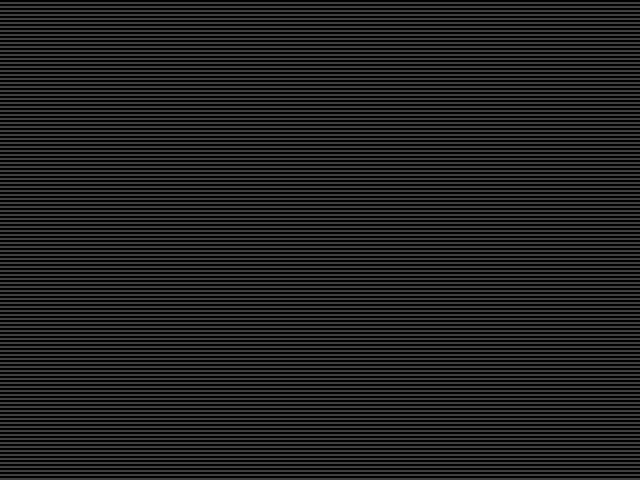
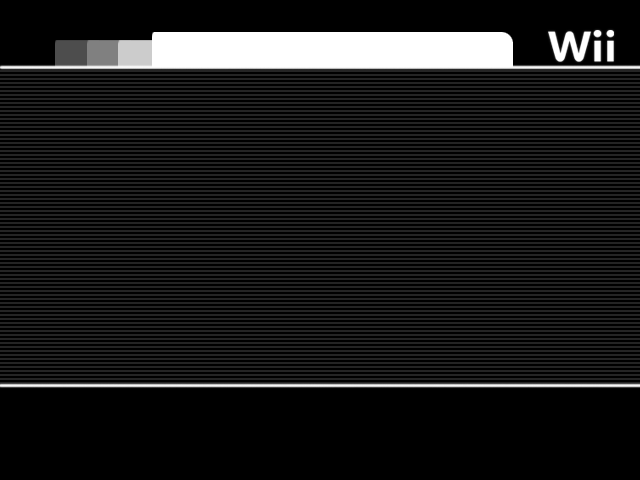
*Reverted cyrex changes to the settings *Added Japanese UnicodeFix made by Rudolph (thanks) (you still need to compile with a japanese font.ttf to have it work) *Added missing languagevariables
issue 517, issue 515, issue 519

diff --git a/source/Settings.cpp b/source/Settings.cpp
@@ -5,7 +5,7 @@
 #include "filelist.h"
 #include "sys.h"
 #include "wbfs.h"
-#include "language.h"
+#include "language/language.h"
 #include "libwiigui/gui.h"
 #include "libwiigui/gui_customoptionbrowser.h"
 #include "fatmounter.h"
@@ -51,13 +51,6 @@ int MenuSettings()
     GuiSound btnClick1(button_click_pcm, button_click_pcm_size, SOUND_PCM, Settings.sfxvolume);
 
 	char imgPath[100];
-	
-	snprintf(imgPath, sizeof(imgPath), "%ssettings_top.png", CFG.theme_path);
-	GuiImageData settingsTop(imgPath, settings_top_png);
-	
-	snprintf(imgPath, sizeof(imgPath), "%ssettings_bottom.png", CFG.theme_path);
-	GuiImageData settingsBottom(imgPath, settings_bottom_png);
-
 
 	snprintf(imgPath, sizeof(imgPath), "%sbutton_dialogue_box.png", CFG.theme_path);
 	GuiImageData btnOutline(imgPath, button_dialogue_box_png);
@@ -87,14 +80,6 @@ int MenuSettings()
 
 	GuiImage creditsImg(&creditsImgData);
 	GuiImage creditsImgOver(&creditsOver);
-	
-	GuiImage settingsTopImg(&settingsTop);
-	settingsTopImg.SetAlignment(ALIGN_LEFT, ALIGN_TOP);
-	settingsTopImg.SetEffect(EFFECT_SLIDE_TOP | EFFECT_SLIDE_IN, 35);
-	
-	GuiImage settingsBottomImg(&settingsBottom);
-	settingsBottomImg.SetAlignment(ALIGN_LEFT, ALIGN_BOTTOM);
-	settingsBottomImg.SetEffect(EFFECT_SLIDE_BOTTOM | EFFECT_SLIDE_IN, 35);
 
     GuiTrigger trigA;
 	trigA.SetSimpleTrigger(-1, WPAD_BUTTON_A | WPAD_CLASSIC_BUTTON_A, PAD_BUTTON_A);
@@ -114,7 +99,6 @@ int MenuSettings()
     GuiText titleTxt(LANGUAGE.settings, 28, (GXColor){0, 0, 0, 255});
 	titleTxt.SetAlignment(ALIGN_CENTRE, ALIGN_TOP);
 	titleTxt.SetPosition(0,40);
-	titleTxt.SetEffect(EFFECT_SLIDE_TOP | EFFECT_SLIDE_IN, 35);
 
     GuiImage settingsbackground(&settingsbg);
 
@@ -128,7 +112,6 @@ int MenuSettings()
 	GuiButton backBtn(&backBtnImg,&backBtnImg, 2, 3, -180, 400, &trigA, &btnSoundOver, &btnClick,1);
 	backBtn.SetLabel(&backBtnTxt);
 	backBtn.SetTrigger(&trigB);
-	backBtn.SetEffect(EFFECT_SLIDE_BOTTOM | EFFECT_SLIDE_IN, 35);
 
 	GuiButton homo(1,1);
 	homo.SetTrigger(&trigHome);
@@ -296,8 +279,6 @@ int MenuSettings()
 			mainWindow->Append(&w);
 			w.RemoveAll();
             w.Append(&settingsbackground);
-			w.Append(&settingsTopImg);
-			w.Append(&settingsBottomImg);
             w.Append(&PageIndicatorBtn1);
             w.Append(&PageIndicatorBtn2);
 			w.Append(&titleTxt);
@@ -397,8 +378,6 @@ int MenuSettings()
 			mainWindow->Append(&w);
 			w.RemoveAll();
             w.Append(&settingsbackground);
-			w.Append(&settingsTopImg);
-			w.Append(&settingsBottomImg);
             w.Append(&PageIndicatorBtn1);
             w.Append(&PageIndicatorBtn2);
 			w.Append(&titleTxt);
@@ -532,7 +511,7 @@ int MenuSettings()
                             Settings.wiilight = 0;
                         if(Settings.rumble >= settings_rumble_max)
                             Settings.rumble = 0; //RUMBLE
-                        if ( Settings.unicodefix > 2 )
+                        if ( Settings.unicodefix > 3 )
                             Settings.unicodefix = 0;
 						if(Settings.titlesOverride >= 2)
 							Settings.titlesOverride = 0;
@@ -577,6 +556,7 @@ int MenuSettings()
                         if (Settings.unicodefix == 0) options2.SetValue(9,"%s",LANGUAGE.OFF);
                         else if (Settings.unicodefix == 1) options2.SetValue(9,"%s",LANGUAGE.TChinese);
                         else if (Settings.unicodefix == 2) options2.SetValue(9,"%s",LANGUAGE.SChinese);
+                        else if (Settings.unicodefix == 3) options2.SetValue(9,"%s",LANGUAGE.Japanese);
 
                         if (Settings.titlesOverride == 0) options2.SetValue(10,"%s",LANGUAGE.OFF);
                         else if (Settings.titlesOverride == 1) options2.SetValue(10,"%s",LANGUAGE.ON);
@@ -887,8 +867,8 @@ int MenuSettings()
                     titleTxt.SetText(LANGUAGE.Parentalcontrol);
                     exit = false;
 					for(int i = 0; i <= MAXOPTIONS; i++) options2.SetName(i, NULL);
-                    options2.SetName(0, "Console");
-                    options2.SetName(1, "%s", LANGUAGE.Password);
+                    options2.SetName(0, "%s",LANGUAGE.Console);
+                    options2.SetName(1, "%s",LANGUAGE.Password);
                     options2.SetName(2, "%s",LANGUAGE.Controllevel);
                     for(int i = 0; i <= MAXOPTIONS; i++) options2.SetValue(i, NULL);
                     w.Append(&optionBrowser2);
@@ -1683,19 +1663,13 @@ int GameSettings(struct discHdr * header)
 	options3.SetName(3, "Ocarina");
 	options3.SetName(4, "IOS");
 	options3.SetName(5,"%s", LANGUAGE.Parentalcontrol);
-	options3.SetName(6,"%s", "Error 002 fix");
+	options3.SetName(6,"%s", LANGUAGE.Error002fix);
 	options3.SetName(7,"%s", LANGUAGE.Defaultgamesettings);
 
 	GuiSound btnSoundOver(button_over_pcm, button_over_pcm_size, SOUND_PCM, Settings.sfxvolume);
 	GuiSound btnClick(button_click2_pcm, button_click2_pcm_size, SOUND_PCM, Settings.sfxvolume);
 
 	char imgPath[100];
-	
-	snprintf(imgPath, sizeof(imgPath), "%ssettings_top.png", CFG.theme_path);
-	GuiImageData settingsTop(imgPath, settings_top_png);
-	
-	snprintf(imgPath, sizeof(imgPath), "%ssettings_bottom.png", CFG.theme_path);
-	GuiImageData settingsBottom(imgPath, settings_bottom_png);
 
 	snprintf(imgPath, sizeof(imgPath), "%sbutton_dialogue_box.png", CFG.theme_path);
 	GuiImageData btnOutline(imgPath, button_dialogue_box_png);
@@ -1713,21 +1687,12 @@ int GameSettings(struct discHdr * header)
 	titleTxt.SetAlignment(ALIGN_CENTRE, ALIGN_TOP);
 	titleTxt.SetPosition(12,40);
 	titleTxt.SetMaxWidth(356, GuiText::SCROLL);
-	titleTxt.SetEffect(EFFECT_SLIDE_TOP | EFFECT_SLIDE_IN, 35);
 
     GuiImage settingsbackground(&settingsbg);
 	GuiButton settingsbackgroundbtn(settingsbackground.GetWidth(), settingsbackground.GetHeight());
 	settingsbackgroundbtn.SetAlignment(ALIGN_LEFT, ALIGN_TOP);
 	settingsbackgroundbtn.SetPosition(0, 0);
 	settingsbackgroundbtn.SetImage(&settingsbackground);
-	
-	GuiImage settingsTopImg(&settingsTop);
-	settingsTopImg.SetAlignment(ALIGN_LEFT, ALIGN_TOP);
-	settingsTopImg.SetEffect(EFFECT_SLIDE_TOP | EFFECT_SLIDE_IN, 35);
-	
-	GuiImage settingsBottomImg(&settingsBottom);
-	settingsBottomImg.SetAlignment(ALIGN_LEFT, ALIGN_BOTTOM);
-	settingsBottomImg.SetEffect(EFFECT_SLIDE_BOTTOM | EFFECT_SLIDE_IN, 35);
 
     GuiText saveBtnTxt(LANGUAGE.Save, 22, (GXColor){THEME.prompttxt_r, THEME.prompttxt_g, THEME.prompttxt_b, 255});
 	saveBtnTxt.SetMaxWidth(btnOutline.GetWidth()-30);
@@ -1738,7 +1703,6 @@ int GameSettings(struct discHdr * header)
 	GuiButton saveBtn(&saveBtnImg,&saveBtnImg, 2, 3, -180, 400, &trigA, &btnSoundOver, &btnClick,1);
 	saveBtn.SetScale(0.9);
 	saveBtn.SetLabel(&saveBtnTxt);
-	saveBtn.SetEffect(EFFECT_SLIDE_BOTTOM | EFFECT_SLIDE_IN, 35);
 
     GuiText cancelBtnTxt(LANGUAGE.Back, 22, (GXColor){THEME.prompttxt_r, THEME.prompttxt_g, THEME.prompttxt_b, 255});
 	cancelBtnTxt.SetMaxWidth(btnOutline.GetWidth()-30);
@@ -1750,7 +1714,6 @@ int GameSettings(struct discHdr * header)
 	cancelBtn.SetScale(0.9);
 	cancelBtn.SetLabel(&cancelBtnTxt);
 	cancelBtn.SetTrigger(&trigB);
-	cancelBtn.SetEffect(EFFECT_SLIDE_BOTTOM | EFFECT_SLIDE_IN, 35);
 
 	GuiText deleteBtnTxt(LANGUAGE.Uninstall, 22, (GXColor){THEME.prompttxt_r, THEME.prompttxt_g, THEME.prompttxt_b, 255});
 	deleteBtnTxt.SetMaxWidth(btnOutline.GetWidth()-30);
@@ -1761,7 +1724,6 @@ int GameSettings(struct discHdr * header)
 	GuiButton deleteBtn(&deleteBtnImg,&deleteBtnImg, 2, 3, 0, 400, &trigA, &btnSoundOver, &btnClick,1);
 	deleteBtn.SetScale(0.9);
 	deleteBtn.SetLabel(&deleteBtnTxt);
-	deleteBtn.SetEffect(EFFECT_SLIDE_BOTTOM | EFFECT_SLIDE_IN, 35);
 
 	GuiCustomOptionBrowser optionBrowser3(396, 280, &options3, CFG.theme_path, "bg_options_gamesettings.png", bg_options_settings_png, 0, 200);
 	optionBrowser3.SetPosition(0, 90);
@@ -1770,8 +1732,6 @@ int GameSettings(struct discHdr * header)
     HaltGui();
 	GuiWindow w(screenwidth, screenheight);
 	w.Append(&settingsbackgroundbtn);
-	w.Append(&settingsTopImg);
-	w.Append(&settingsBottomImg);
     w.Append(&titleTxt);
 	w.Append(&deleteBtn);
 	w.Append(&saveBtn);

diff --git a/source/language/language.c b/source/language/language.c
@@ -56,6 +56,7 @@ snprintf(LANGUAGE.ClicktoDownloadCovers, sizeof(LANGUAGE.ClicktoDownloadCovers),
 snprintf(LANGUAGE.Clock, sizeof(LANGUAGE.Clock), "Clock");
 snprintf(LANGUAGE.Close, sizeof(LANGUAGE.Close), "Close");
 snprintf(LANGUAGE.Continueinstallgame, sizeof(LANGUAGE.Continueinstallgame), "Continue to install game?");
+snprintf(LANGUAGE.Console, sizeof(LANGUAGE.Console), "Console");
 snprintf(LANGUAGE.ConsoleDefault, sizeof(LANGUAGE.ConsoleDefault), "Console Default");
 snprintf(LANGUAGE.Consoleshouldbeunlockedtomodifyit, sizeof(LANGUAGE.Consoleshouldbeunlockedtomodifyit), "Console should be unlocked to modify it.");
 snprintf(LANGUAGE.ConsoleLocked, sizeof(LANGUAGE.ConsoleLocked), "Console Locked");
@@ -92,6 +93,7 @@ snprintf(LANGUAGE.Defaultsettings, sizeof(LANGUAGE.Defaultsettings), "Default Se
 snprintf(LANGUAGE.Default, sizeof(LANGUAGE.Default), "Default");
 snprintf(LANGUAGE.diversepatches, sizeof(LANGUAGE.diversepatches), "for diverse patches");
 snprintf(LANGUAGE.Error, sizeof(LANGUAGE.Error), "Error !");
+snprintf(LANGUAGE.Error002fix, sizeof(LANGUAGE.Error002fix), "Error 002 fix");
 snprintf(LANGUAGE.hour, sizeof(LANGUAGE.hour), "Hour");
 snprintf(LANGUAGE.Homemenu, sizeof(LANGUAGE.Homemenu), "HOME Menu");
 snprintf(LANGUAGE.BOOTERROR, sizeof(LANGUAGE.BOOTERROR), "BOOT ERROR");
@@ -389,6 +391,10 @@ void language_set(char *name, char *val)
 		strcopy(LANGUAGE.Continueinstallgame, val, sizeof(LANGUAGE.Continueinstallgame));
 		return;
 	}
+	if (strcmp(name, "Console") == 0) {
+		strcopy(LANGUAGE.Console, val, sizeof(LANGUAGE.Console));
+		return;
+	}
 	if (strcmp(name, "ConsoleDefault") == 0) {
 		strcopy(LANGUAGE.ConsoleDefault, val, sizeof(LANGUAGE.ConsoleDefault));
 		return;
@@ -527,6 +533,10 @@ void language_set(char *name, char *val)
 	}
 	if (strcmp(name, "Error") == 0) {
 		strcopy(LANGUAGE.Error, val, sizeof(LANGUAGE.Error));
+		return;
+	}
+	if (strcmp(name, "Error002fix") == 0) {
+		strcopy(LANGUAGE.Error002fix, val, sizeof(LANGUAGE.Error002fix));
 		return;
 	}
 	if (strcmp(name, "BOOTERROR") == 0) {
@@ -1203,6 +1213,10 @@ void language_set(char *name, char *val)
 	}
 	if (strcmp(name, "updating") == 0) {
 		strcopy(LANGUAGE.updating, val, sizeof(LANGUAGE.updating));
+		return;
+	}
+    if (strcmp(name, "XMLTitles") == 0) {
+		strcopy(LANGUAGE.XMLTitles, val, sizeof(LANGUAGE.XMLTitles));
 		return;
 	}
 

diff --git a/source/FreeTypeGX.cpp b/source/FreeTypeGX.cpp
@@ -21,8 +21,9 @@
  */
 
 #include "FreeTypeGX.h"
-#include "CH2Unicode.h"
-#include "GB2Unicode.h"
+#include "language/CH2Unicode.h"
+#include "language/GB2Unicode.h"
+#include "language/sjis2unicode.h"
 #include "main.h"
 #include "cfg.h"
 
@@ -95,6 +96,8 @@ wchar_t* FreeTypeGX::charToWideChar(char* strChar) {
         CH2Unicode(strChar, strWChar);
     } else if(Settings.unicodefix == 2) {
         ConverGB2Unicode(strChar, strWChar);
+    } else if(Settings.unicodefix == 3) {
+        _sjis2unicode(strChar, strWChar);
     } else {
       char *tempSrc = strChar;
       wchar_t *tempDest = strWChar;
@@ -443,11 +446,11 @@ int16_t FreeTypeGX::getStyleOffsetWidth(uint16_t width, uint16_t format) {
 	{
 		case FTGX_JUSTIFY_LEFT:
 			return 0;
-			
+
 		default:
 		case FTGX_JUSTIFY_CENTER:
 			return -(width >> 1);
-		
+
 		case FTGX_JUSTIFY_RIGHT:
 			return -width;
 	}
@@ -469,23 +472,23 @@ int16_t FreeTypeGX::getStyleOffsetHeight(ftgxDataOffset *offset, uint16_t format
 	{
 		case FTGX_ALIGN_TOP:
 			return offset->ascender;
-		
+
 		default:
 		case FTGX_ALIGN_MIDDLE:
 			return  (offset->ascender + offset->descender + 1) >> 1;
-		
+
 		case FTGX_ALIGN_BOTTOM:
 			return offset->descender;
-		
+
 		case FTGX_ALIGN_BASELINE:
 			return 0;
-		
+
 		case FTGX_ALIGN_GLYPH_TOP:
 			return offset->max;
-		
+
 		case FTGX_ALIGN_GLYPH_MIDDLE:
 			return (offset->max + offset->min + 1) >> 1;
-		
+
 		case FTGX_ALIGN_GLYPH_BOTTOM:
 			return offset->min;
 	}
@@ -679,8 +682,8 @@ uint16_t FreeTypeGX::getHeight(wchar_t const *text) {
  * pixel height below the font origin line and returns the values in an addressible structure.
  *
  * @param text	NULL terminated string to calculate.
- * @param offset returns the max and min values above and below the font origin line        
- * 
+ * @param offset returns the max and min values above and below the font origin line
+ *
  */
 ftgxDataOffset* FreeTypeGX::getOffset(wchar_t *text, ftgxDataOffset* offset) {
 	uint16_t strLength = wcslen(text);

diff --git a/source/language/language.h b/source/language/language.h
@@ -56,6 +56,7 @@ struct LANGUAGE
 	char Clock[20];
 	char Close[20];
 	char Continueinstallgame[50];
+	char Console[50];
 	char ConsoleDefault[50];
 	char Consoleshouldbeunlockedtomodifyit[100];
 	char ConsoleLocked[50];
@@ -92,6 +93,7 @@ struct LANGUAGE
 	char Default[40];
 	char diversepatches[60];
 	char Error[30];
+	char Error002fix[50];
 	char BOOTERROR[50];
 	char ErrorreadingDisc[50];
 	char ExitUSBISOLoader[50];

diff --git a/source/filelist.h b/source/filelist.h
@@ -11,12 +11,6 @@
 
 #include <gccore.h>
 
-extern const u8		settings_top_png[];
-extern const u32	settings_top_png_size;
-
-extern const u8		settings_bottom_png[];
-extern const u32	settings_bottom_png_size;
-
 extern const u8		font_ttf[];
 extern const u32	font_ttf_size;
 

diff --git a/source/PromptWindows.cpp b/source/PromptWindows.cpp
@@ -11,7 +11,7 @@
 #include "wpad.h"
 #include "wbfs.h"
 #include "wdvd.h"
-#include "language.h"
+#include "language/language.h"
 #include "libwiigui/gui.h"
 #include "libwiigui/gui_diskcover.h"
 #include "fatmounter.h"

diff --git a/source/SettingsPrompts.cpp b/source/SettingsPrompts.cpp
@@ -4,7 +4,7 @@
 
 #include "filelist.h"
 #include "sys.h"
-#include "language.h"
+#include "language/language.h"
 #include "libwiigui/gui.h"
 #include "libwiigui/gui_customoptionbrowser.h"
 #include "listfiles.h"

diff --git a/source/menu.cpp b/source/menu.cpp
@@ -25,7 +25,7 @@
 #include "sys.h"
 #include "patchcode.h"
 #include "wpad.h"
-#include "language.h"
+#include "language/language.h"
 #include "listfiles.h"
 #include "fatmounter.h"
 #include "getentries.h"

diff --git a/source/gameinfo.cpp b/source/gameinfo.cpp
@@ -13,7 +13,7 @@
 #include "sys.h"
 #include "wpad.h"
 #include "wbfs.h"
-#include "language.h"
+#include "language/language.h"
 #include "libwiigui/gui.h"
 #include "fatmounter.h"
 #include "listfiles.h"

diff --git a/source/main.cpp b/source/main.cpp
@@ -32,7 +32,7 @@
 #include "video2.h"
 #include "wpad.h"
 #include "cfg.h"
-#include "language.h"
+#include "language/language.h"
 #include "fat.h"
 #include "mload.h"
 

diff --git a/source/cfg.c b/source/cfg.c
@@ -7,7 +7,7 @@
 #include <ogcsys.h>
 #include <mxml.h>
 #include "cfg.h"
-#include "language.h"
+#include "language/language.h"
 #include "xml.h" /* XML - Lustar*/
 
 
